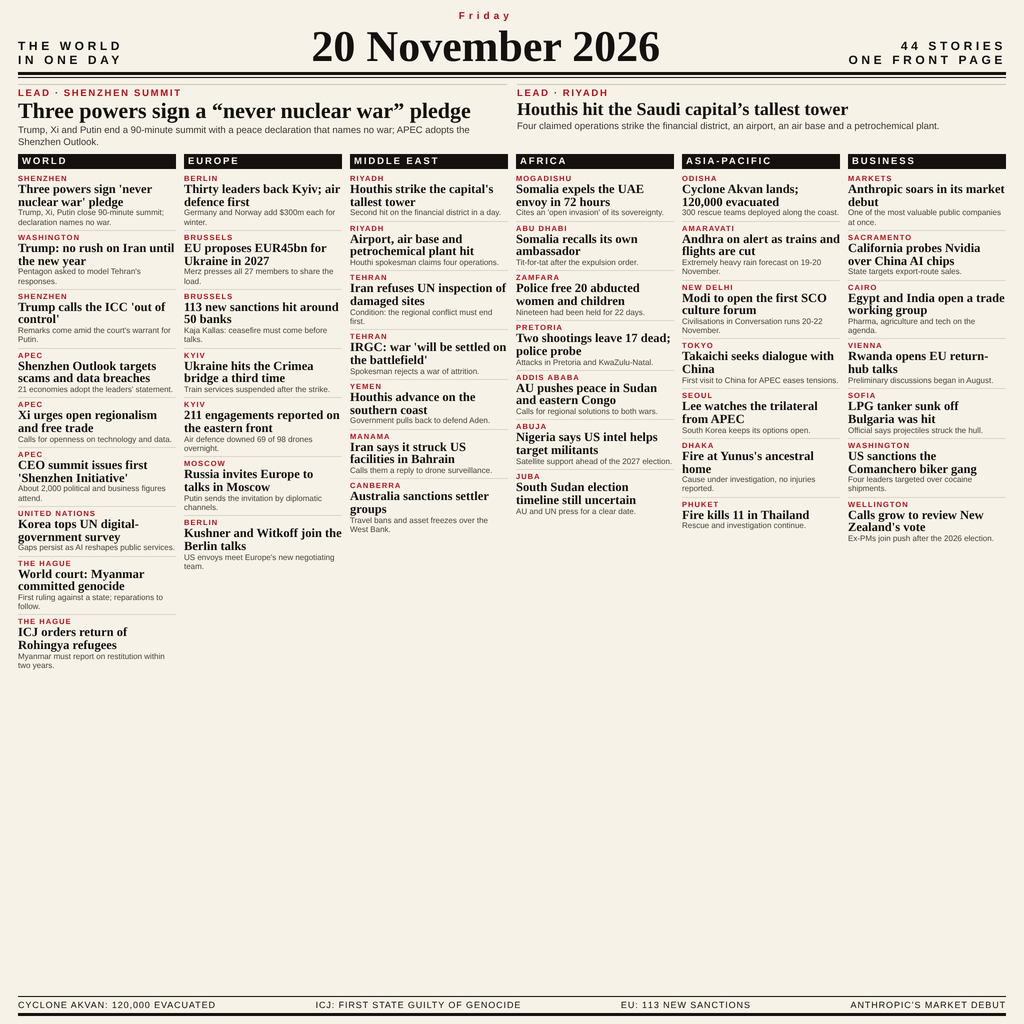
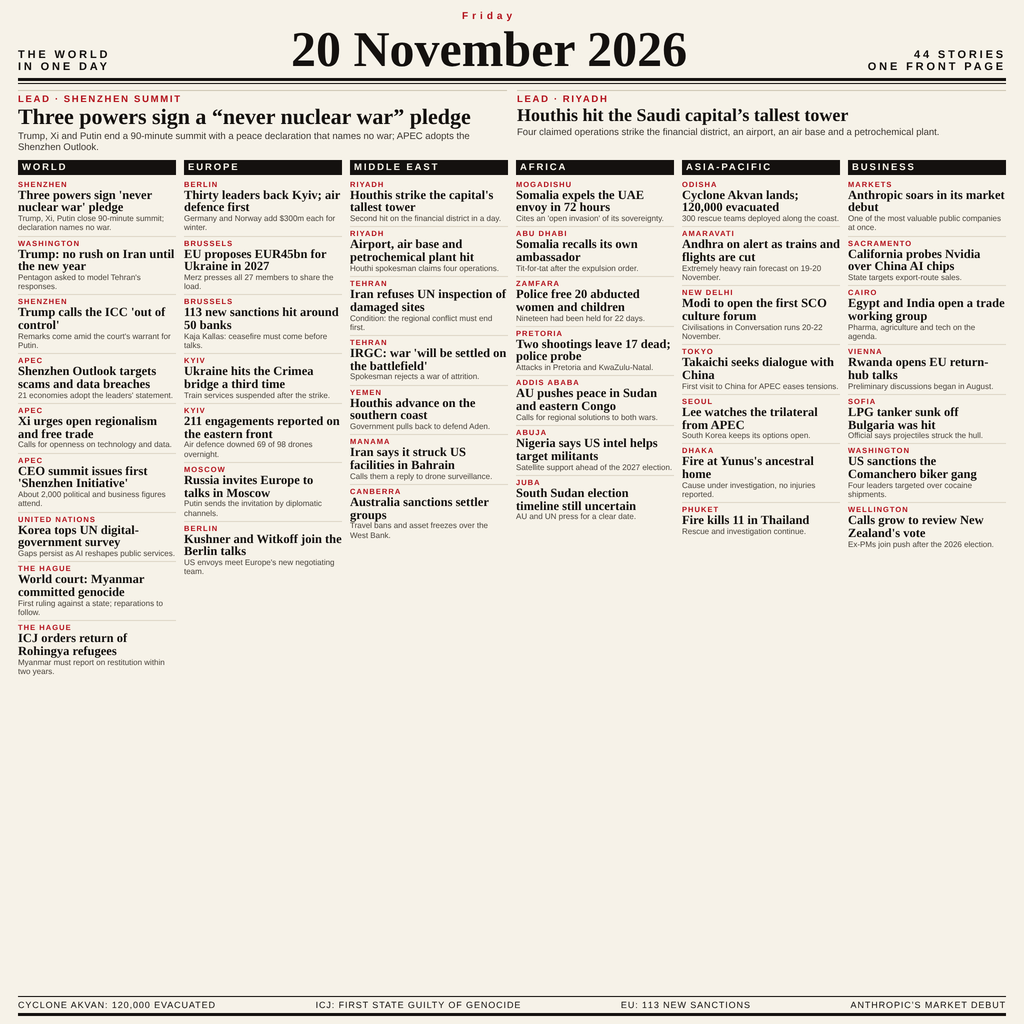
poster: larger date on the 44-story page

Changed region(s): [[0.0, 0.0, 1.0, 0.6562]]

diff --git a/poster/poster3.html b/poster/poster3.html
@@ -2,8 +2,8 @@
 html,body{margin:0;background:#f6f2e8;color:#14110f;font-family:"Liberation Serif",Georgia,serif}
 .sheet{width:1024px;height:1024px;box-sizing:border-box;padding:12px 18px 8px;display:flex;flex-direction:column}
 .mast{display:flex;align-items:flex-end;justify-content:space-between}
-.brand{font-family:"Liberation Sans",Arial,sans-serif;font-weight:700;font-size:12px;letter-spacing:.3em;text-transform:uppercase}
-.date{font-weight:700;font-size:44px;line-height:.95;text-align:center}
+.brand{font-family:"Liberation Sans",Arial,sans-serif;font-weight:700;font-size:11px;letter-spacing:.26em;text-transform:uppercase}
+.date{font-weight:700;font-size:50px;line-height:.95;text-align:center}
 .date small{display:block;font-family:"Liberation Sans",Arial,sans-serif;font-size:10px;letter-spacing:.4em;font-weight:700;margin-bottom:4px;color:#b3121c}
 .rule{border-top:3px solid #14110f;margin:5px 0 2px} .rule.thin{border-top:1px solid #14110f;margin:0 0 6px}
 .leads{display:flex;gap:10px}
